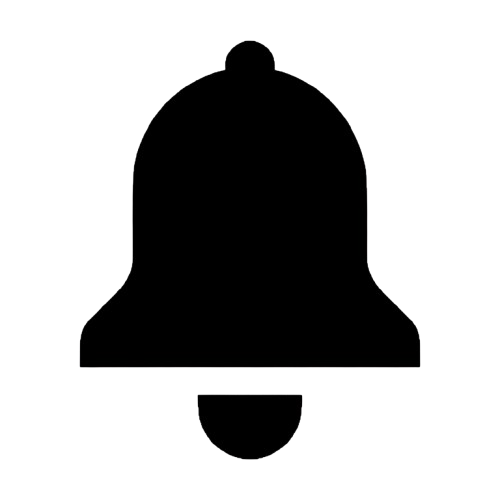
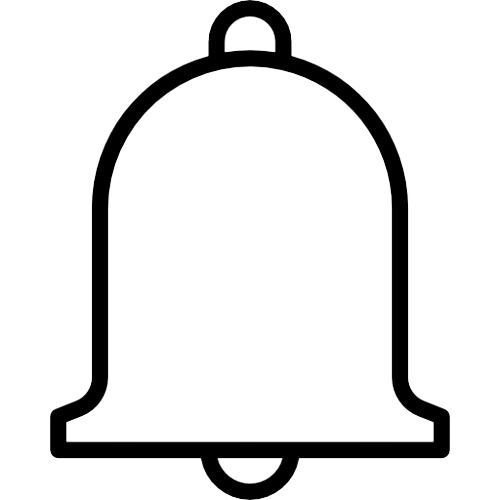
some fixes about many things

diff --git a/src/App.jsx b/src/App.jsx
@@ -28,6 +28,40 @@ export default function App() {
   const [misContactosIds, setMisContactosIds] = useState([]);
   const [novedades, setNovedades] = useState([]);
   const [countsNovedades, setCountsNovedades] = useState({});
+  const [isNotifications, setIsNotifications] = useState(
+    () => Notification.permission === "granted"
+  );
+
+  const pedirPermisoNotificaciones = async () => {
+    if (!("Notification" in window)) {
+      setIsNotifications(false);
+      alert("Tu navegador no soporta notificaciones.");
+      return;
+    }
+
+    const permiso = await Notification.requestPermission();
+
+    if (permiso === "granted") {
+      if (isNotifications) {
+        setIsNotifications(false);
+        new Notification("Just Message", {
+          body: "Notificaciones desactivadas",
+          icon: "/logo_chat_icon.png",
+        });
+      } else {
+        setIsNotifications(true);
+        new Notification("Just Message", {
+          body: "Notificaciones activadas",
+          icon: "/logo_chat_icon.png",
+        });
+      }
+    } else if (permiso === "denied") {
+      setIsNotifications(false);
+      alert(
+        "Has bloqueado las notificaciones. Por favor, actívalas haciendo clic en el candado de la barra de direcciones."
+      );
+    }
+  };
 
   const encrypt = (text) => CryptoJS.AES.encrypt(text, MASTER_KEY).toString();
 
@@ -39,7 +73,6 @@ export default function App() {
       return "[Cifrado]";
     }
   };
-
 
   const seleccionarChat = (user) => {
     setSelectedUser(user);
@@ -62,7 +95,6 @@ export default function App() {
     socket.disconnect();
     socket.connect();
   };
-
 
   // 1. ESCUCHAR EVENTOS DEL SERVIDOR
   useEffect(() => {
@@ -216,17 +248,19 @@ export default function App() {
 
           const permiso = Notification.permission;
 
-          if (permiso === "granted") {
+          if (permiso === "granted" && isNotifications) {
             const usuarioMsg = usuariosGlobales.find(
               (u) => String(u._id) === String(msg.fromUserId)
             );
-            const titulo = 'Just Message';
+            const titulo = "Just Message";
             const body = usuarioMsg
               ? `Tienes un mensaje de ${usuarioMsg.username}`
               : "Tienes un mensaje";
 
-            const avatarUsuario = usuarioMsg?.avatar || "https://res.cloudinary.com/do0s2lutu/image/upload/v1766779509/user_l8spmu.png";
-            
+            const avatarUsuario =
+              usuarioMsg?.avatar ||
+              "https://res.cloudinary.com/do0s2lutu/image/upload/v1766779509/user_l8spmu.png";
+
             try {
               const notif = new Notification(titulo, {
                 body: body,
@@ -234,9 +268,9 @@ export default function App() {
                 renotify: true,
                 tag: msg._id,
                 silent: false,
-                image: window.location.origin + "/public/logo_chat_icon.png"
+                image: window.location.origin + "/public/logo_chat_icon.png",
               });
-              console.log(notif.image)
+              console.log(notif);
 
               notif.onclick = () => {
                 window.focus();
@@ -254,7 +288,7 @@ export default function App() {
 
     socket.on("mensaje", handleMensajeNovedad);
     return () => socket.off("mensaje", handleMensajeNovedad);
-  }, [myId, selectedUser, usuariosGlobales]);
+  }, [myId, selectedUser, usuariosGlobales, isNotifications]);
 
   // 7. ESCUCHAR BORRADO PARA ACTUALIZAR CONTADORES
   useEffect(() => {
@@ -331,6 +365,8 @@ export default function App() {
       socket={socket}
       onLogout={handleLogout}
       countsNovedades={countsNovedades}
+      isNotifications={isNotifications}
+      onToggleNotifications={pedirPermisoNotificaciones}
     />
   );
 }

diff --git a/src/components/chatList/ChatList.jsx b/src/components/chatList/ChatList.jsx
@@ -2,6 +2,7 @@ import React, { useEffect, useState, useRef } from "react";
 import Logout from "../../assets/images/logout.png";
 import AvatarDefault from "../../assets/images/user.png";
 import Bell from "../../assets/images/bell.png";
+import Bass from "../../assets/images/bass.png";
 import LoadingSpinner from "../../subComponents/loadingSpinner/LoadingSpinner";
 
 export default function ChatList({
@@ -14,6 +15,8 @@ export default function ChatList({
   novedades = [],
   onLogout,
   countsNovedades,
+  isNotifications,
+  onToggleNotifications
 }) {
   const [isWithoutText, setIsWithoutText] = useState(false);
   const [msgIfCopyOrNotCopy, setmsgIfCopyOrNotCopy] = useState("");
@@ -23,7 +26,6 @@ export default function ChatList({
   const fileInputRef = useRef(null);
   const [emptyMessage, setEmptyMessage] = useState("Buscando chats...");
   const [loadingMessage, setLoadingMessage] = useState(true);
-  const [isNotifications, setIsNotifications] = useState(false);
 
   // Cambiar titulo y notificacion
   useEffect(() => {
@@ -107,7 +109,7 @@ export default function ChatList({
 
     setTimeout(() => {
       setIsCopyVisible(true);
-    }, 1)
+    }, 1);
     clearTimeout(mostrarMensajeCopiado._timeout);
     mostrarMensajeCopiado._timeout = setTimeout(() => {
       setIsCopyVisible(false);
@@ -158,33 +160,12 @@ export default function ChatList({
     }
   };
 
-  const pedirPermisoNotificaciones = async () => {
-    if (!("Notification" in window)) {
-      setIsNotifications(false);
-      alert("Tu navegador no soporta notificaciones.");
-      return;
-    }
-
-    const permiso = await Notification.requestPermission();
-
-    if (permiso === "granted") {
-      setIsNotifications(true);
-      alert("¡Genial! Notificaciones activadas.");
-      new Notification("Just Message", {
-        body: "Las notificaciones están activas",
-      });
-    } else {
-      setIsNotifications(false);
-      alert("No se han activado las notificaciones.");
-    }
-  };
-
   const miUsuario = usuarios.find((u) => u._id === miId);
   const miAvatarProp = miUsuario?.avatar || AvatarDefault;
 
   return (
     <div className="chat-list-container pd-2 br-1">
-      <div className="flex-row justify-between align-center mb-1">
+      <div className="flex-row justify-between align-center mb-2">
         <button
           className={`btn-upload-image ${isUploading ? "loading" : ""}`}
           onClick={() => fileInputRef.current.click()}
@@ -195,14 +176,14 @@ export default function ChatList({
         <h2 className="fs-3 title-chats">Chats</h2>
         <button
           className={`btn-notifications ${isNotifications ? "on" : ""}`}
-          onClick={pedirPermisoNotificaciones}
+          onClick={onToggleNotifications}
           title={`${
             isNotifications
               ? "Desactivar notificaciones"
               : "Activar notificaciones"
           }`}
         >
-          <img src={Bell} alt="camapana de notificaciones" />
+          <img src={Bass} alt="camapana de notificaciones" />
         </button>
 
         <input

diff --git a/src/components/chatList/_chatList.scss b/src/components/chatList/_chatList.scss
@@ -30,21 +30,41 @@
   }
 
   .btn-notifications {
-    width: 2.5rem;
-    height: 2.5rem;
+    width: 2rem;
+    height: 2rem;
     border-radius: 50%;
-    overflow: hidden;
+    //overflow: hidden;
     border: none;
     outline: none;
     background-color: transparent;
     cursor: pointer;
     margin-left: auto;
     margin-right: 1rem;
+    position: relative;
 
     img {
       width: 100%;
       height: 100%;
 
+    }
+
+    &:after {
+      content: "";
+      position: absolute;
+      top: 5%;
+      right: 12.5%;
+      width: 2px;
+      height: 135%;
+      transform: rotate(45deg);
+      transform-origin: top right;
+      background-color: $custom-black;
+      transition: height ease 0.3s;
+    }
+
+    &.on {
+      &:after {
+        height: 0;
+      }
     }
   }
 
